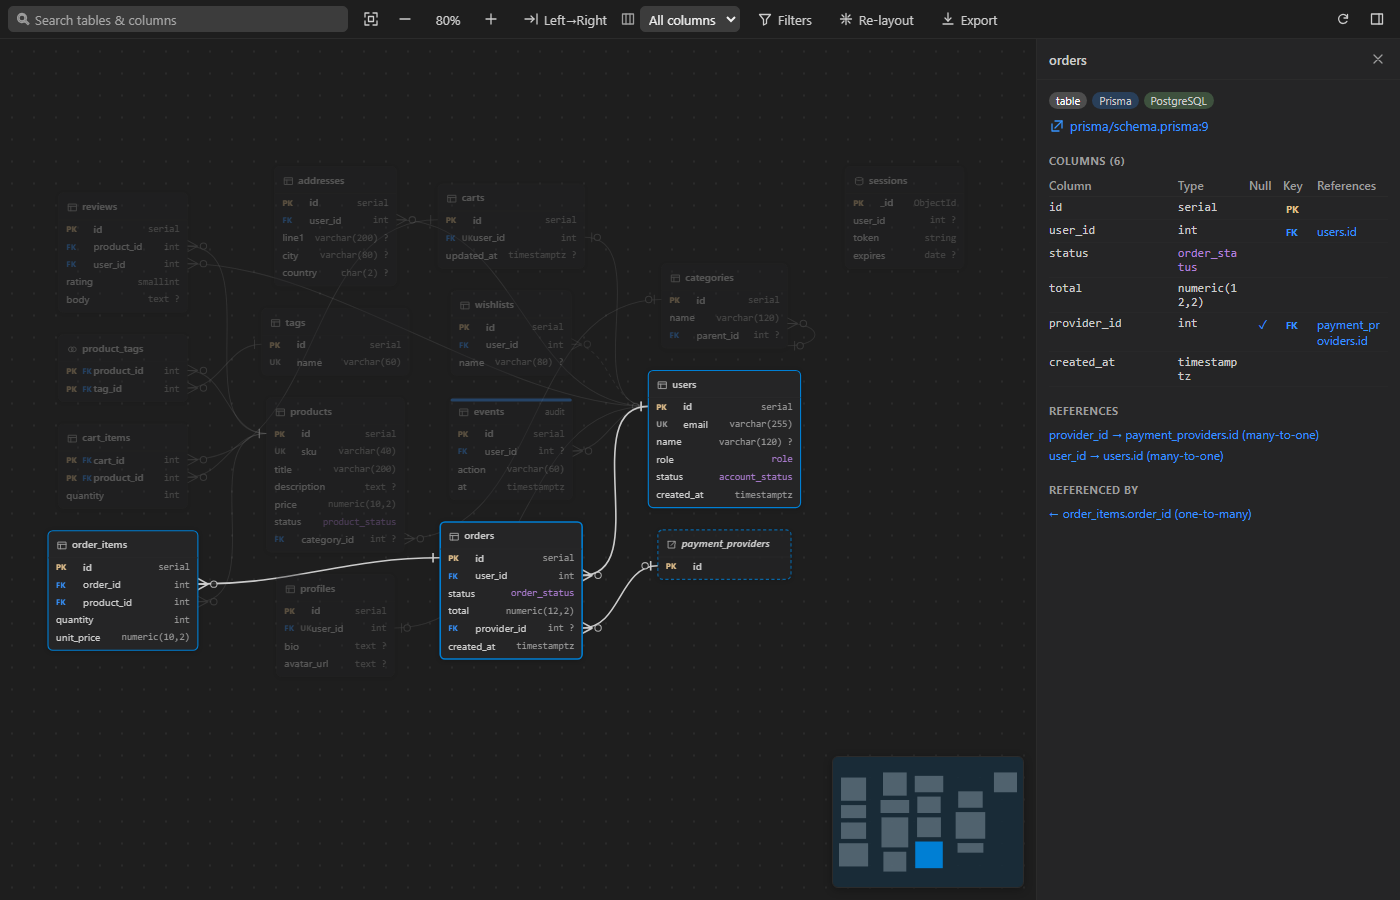
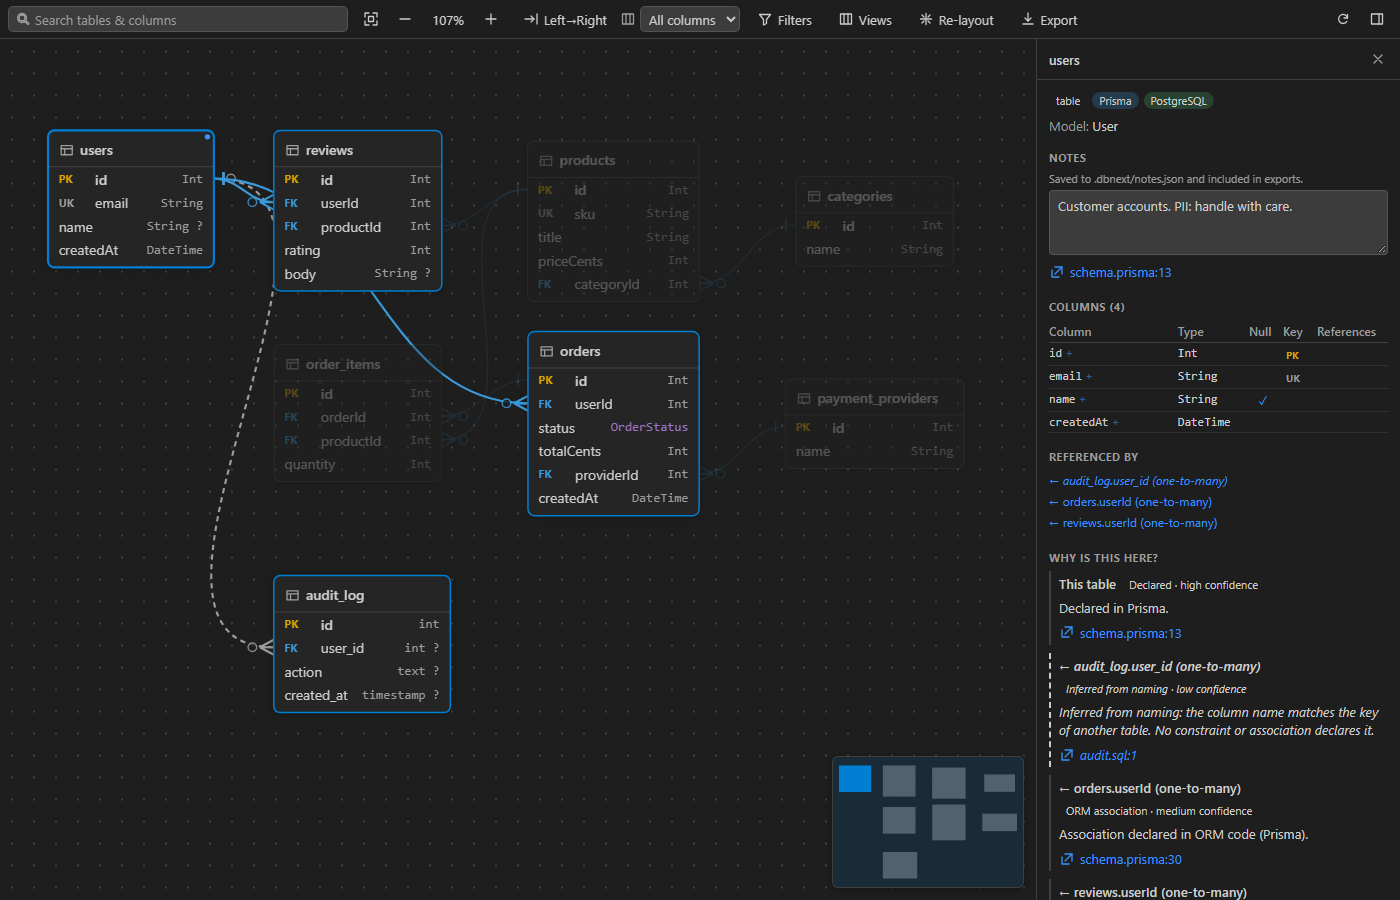
DBNext 0.2.1: README and screenshot corrections, Prisma table names no longer flagged as guessed
- README: CLI is run from a clone (not published to npm), 33 technologies, provenance/diff/notes documented, fixed MongoDB validators row
- Refreshed screenshots incl. new schema diff view
- Prisma: a model without @@map maps to the table of the same name (certain, not guessed)
- Integration test: poll the shared system clipboard instead of reading once

diff --git a/test/unit/parsers/prisma-name-certainty.test.ts b/test/unit/parsers/prisma-name-certainty.test.ts
@@ -1,0 +1,40 @@
+import { describe, expect, it } from 'vitest';
+import type { FileResult } from '../../../src/core/model';
+import { resolveSchema } from '../../../src/core/resolve';
+import { prismaParser } from '../../../src/parsers/prisma';
+import { sqlParser } from '../../../src/parsers/sql';
+
+const prisma = (text: string, path = 'prisma/schema.prisma'): FileResult => ({ file: path, kind: 'prisma', result: prismaParser.parse({ path, text }) });
+const sql = (text: string, path: string): FileResult => ({ file: path, kind: 'sql', result: sqlParser.parse({ path, text }) });
+
+describe('prisma: table name certainty', () => {
+  const schema = `
+    model Booking {
+      id Int @id
+    }
+    model Legacy {
+      id Int @id
+      @@map("legacy_rows")
+    }
+  `;
+
+  it('does not flag a model without @@map as guessed', () => {
+    const r = resolveSchema([prisma(schema)]);
+    const booking = r.entities.find((e) => e.name === 'Booking')!;
+    expect(booking.provenance?.derivation).toBe('declared');
+    expect(booking.provenance?.confidence).toBe('high');
+  });
+
+  it('treats a model with @@map as declared', () => {
+    const r = resolveSchema([prisma(schema)]);
+    const legacy = r.entities.find((e) => e.name === 'legacy_rows')!;
+    expect(legacy.provenance?.derivation).toBe('declared');
+  });
+
+  it('merges a model with the migration table of the same name into one entity', () => {
+    const migration = 'CREATE TABLE "Booking" ("id" SERIAL NOT NULL, CONSTRAINT "Booking_pkey" PRIMARY KEY ("id"));';
+    const r = resolveSchema([prisma(schema), sql(migration, 'prisma/migrations/1_init/migration.sql')]);
+    expect(r.entities.filter((e) => e.name.toLowerCase() === 'booking')).toHaveLength(1);
+    expect(r.entities.find((e) => e.name === 'Booking')?.provenance?.derivation).toBe('declared');
+  });
+});

diff --git a/test/integration/suite.ts b/test/integration/suite.ts
@@ -67,8 +67,15 @@ export async function run(): Promise<void> {
   await step('copies a Mermaid ER diagram to the clipboard', async () => {
     await vscode.env.clipboard.writeText('');
     await vscode.commands.executeCommand('dbnext.copyMermaid');
-    const text = await vscode.env.clipboard.readText();
-    assert.match(text, /^erDiagram/);
+    // The system clipboard is shared with the rest of the desktop and is written asynchronously:
+    // poll briefly instead of reading once.
+    let text = '';
+    for (let i = 0; i < 15; i++) {
+      text = await vscode.env.clipboard.readText();
+      if (text.startsWith('erDiagram')) break;
+      await sleep(200);
+    }
+    assert.match(text, /^erDiagram/, `clipboard held: ${JSON.stringify(text.slice(0, 80))}`);
     assert.match(text, /post }o--\|\| user/i);
   });
 

diff --git a/test/unit/parsers/prisma.test.ts b/test/unit/parsers/prisma.test.ts
@@ -69,11 +69,11 @@ describe('prisma: models and columns', () => {
     expect(user.comment).toBe('A registered account.');
   });
 
-  it('derives table name from the model name (certainty 0) when no @@map', () => {
+  it('derives table name from the model name (certainty 2) when no @@map', () => {
     const r = parse(text);
     const post = r.entities.find((e) => e.modelName === 'Post')!;
     expect(post.name).toBe('Post');
-    expect(post.nameCertainty).toBe(0);
+    expect(post.nameCertainty).toBe(2);
   });
 
   it('applies @map, @db native types, @default and modifiers to columns', () => {

diff --git a/src/parsers/prisma.ts b/src/parsers/prisma.ts
@@ -183,7 +183,8 @@ function parseModel(code: Code, b: Block, mongo: boolean): ParsedModel {
   const fields: FieldLine[] = [];
   const columnOf = new Map<string, string>();
   let tableName = b.name;
-  let nameCertainty: 0 | 2 = 0;
+  // Prisma maps a model without @@map to the table of exactly the same name (deterministic).
+  let nameCertainty: 0 | 2 = 2;
   let schema: string | undefined;
   let ignore = false;
   const idFields: string[] = [];

diff --git a/README.md b/README.md
@@ -1,10 +1,10 @@
 # DBNext – Database Map & ER Diagram
 
 **Open any repository and instantly see its databases.** DBNext scans the project, finds every
-schema definition (SQL, migrations and ORM models in 28 technologies), and draws an interactive
+schema definition (SQL, migrations and ORM models in 33 technologies), and draws an interactive
 entity-relationship map. You don't need a database connection or any configuration.
 
-![DB Map showing tables, relations and the details of the selected table](media/screenshot.png)
+![DB Map of a Prisma shop schema: the selected table's side panel shows notes, columns and how each relation was derived, with an inferred relation drawn dashed](media/screenshot.png)
 
 ## Features
 
@@ -22,13 +22,18 @@ entity-relationship map. You don't need a database connection or any configurati
   package and URL-scheme names are shown, never hosts, usernames or passwords, and real `.env` files
   are never opened.
 - **Sidebar tree.** Databases, tables, columns, relations and enums, with "Go to Definition".
+- **Shows its work.** For every table, column and relation the side panel and tooltips show how DBNext derived it (declared foreign key, ORM association, inferred from naming, guessed table name) and which files and lines it came from. Uncertain items are badged so you know what to double-check.
+- **Schema diff.** Compare the current schema with any branch, tag or commit and see added, removed and changed tables, columns and relations.
+- **Notes.** Add your own notes to tables and columns; they are saved in `.dbnext/notes.json` so the team can share them.
 - **Export.** Write a `DBMAP.md` with a Mermaid ER diagram that GitHub and GitLab render, copy the
-  Mermaid source, or save the diagram as SVG.
+  Mermaid, DBML or PlantUML source, or save the diagram as SVG or PNG.
 - **Live.** Edit a model or add a migration and the map updates.
 - **Large schemas.** 300+ tables lay out in well under a second; big schemas start with compact
   cards.
 
-![A 100-table schema focused on one table](media/screenshot-large.png)
+![The 100-table cal.com Prisma schema focused on the Booking table](media/screenshot-large.png)
+
+![Schema diff view: added, removed and changed tables, columns, relations and enums](media/screenshot-diff.png)
 
 ## Supported technologies
 
@@ -40,7 +45,7 @@ entity-relationship map. You don't need a database connection or any configurati
 | Python | Django, SQLAlchemy (incl. Flask-SQLAlchemy & Alembic), SQLModel, Peewee, Tortoise ORM |
 | Ruby / PHP / Elixir | Rails (`schema.rb`, migrations, models), Laravel (migrations & Eloquent), Doctrine, Ecto |
 | Go / Rust | GORM, Ent, Bun, SeaORM |
-| Mappings & API schemas | Hibernate XML (*.hbm.xml), Doctrine XML/YAML, GraphQL SDL (only types with a database directive such as @model), ZenStack schema.zmodel, MongoDB `` validators in createCollection |
+| Mappings & API schemas | Hibernate XML (*.hbm.xml), Doctrine XML/YAML, GraphQL SDL (only types with a database directive such as @model), ZenStack schema.zmodel, MongoDB `$jsonSchema` validators in `createCollection` |
 | JVM / .NET | JPA / Hibernate (Java & Kotlin), Exposed, Entity Framework Core (models, DbContext, migrations, snapshots) |
 
 ## Commands
@@ -76,13 +81,16 @@ Set `dbnext.liveDatabase.enabled` (machine scope, desktop only, off by default) 
 
 The same scanner is available as a CLI, e.g. to keep `DBMAP.md` up to date in CI:
 
+The CLI is not published to npm (the `dbnext` package name on npm belongs to an unrelated project, so do not run `npx dbnext`). Build it from a clone of this repository:
+
 ```sh
-npx dbnext scan . --out DBMAP.md                # Markdown + Mermaid (default)
-npx dbnext scan ./services/api --format dbml    # md | mermaid | dbml | plantuml | json
+git clone https://github.com/suvijya/dbnext && cd dbnext
+npm ci && npm run build:prod
+node dist/cli.js scan /path/to/project --out DBMAP.md           # Markdown + Mermaid (default)
+node dist/cli.js scan /path/to/project --format dbml            # md | mermaid | dbml | plantuml | json
 ```
 
-From a clone, build it with `npm run build:prod` and run `node dist/cli.js scan <dir>`. The CLI is not part of the
-extension package (`dist/cli.js` is excluded from the `.vsix`).
+`dist/cli.js` is not part of the extension package (`.vsix`).
 
 Keyboard shortcuts in the map: `+` / `-` zoom, `0` fit, `F` focus the selection, `Esc` clear,
 `Enter` / `Shift+Enter` cycle through search results, arrow keys move between connected tables.

diff --git a/CHANGELOG.md b/CHANGELOG.md
@@ -1,5 +1,12 @@
 # Changelog
 
+## 0.2.1
+
+- README corrected: the CLI is run from a clone of the repository (`node dist/cli.js scan <dir>`); it is not published to npm.
+- Documentation now covers all 33 supported technologies and the 0.2.0 features.
+- Refreshed screenshots, including the new schema diff view.
+- Prisma models without `@@map` are no longer flagged as 'Name guessed': Prisma maps them to the table of the same name.
+
 ## 0.2.0
 
 - New parsers: Hibernate XML mappings (`*.hbm.xml`), Doctrine XML/YAML mappings, GraphQL SDL (types with a
